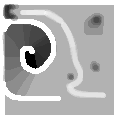
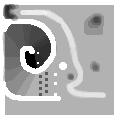
new lighting, ability to ride creature, added pnoise.

diff --git a/js/InformGameApp.js b/js/InformGameApp.js
@@ -21,6 +21,9 @@ var world = {};
 
 var time = 0;
 
+var player;
+var playerTarget = null;
+
 //***************************************************************************//
 // initialize the renderer, scene, camera, and lights                        //
 //***************************************************************************//
@@ -36,7 +39,7 @@ function onLoad()
     renderer.shadowMapEnabled = true;
     // renderer.shadowMapSoft = true;
     // renderer.physicallyBasedShading = true;
-    // renderer.shadowMapCullFace = THREE.CullFaceBack;
+    renderer.shadowMapCullFace = THREE.CullFaceBack;
     container.appendChild( renderer.domElement );
 
     // Create a new Three.js scene
@@ -46,7 +49,7 @@ function onLoad()
     camera = new THREE.PerspectiveCamera( 20, 
         window.innerWidth / window.innerHeight, 1, 10000 );
         
-    camera.position.set( 100, 50, 0);
+    camera.position.set( 0, 50, -100);
     camera.lookAt(0, 0, 0);
     controls = new THREE.OrbitControls(camera);
     controls.noKeys = true;
@@ -84,7 +87,7 @@ function initSceneLights()
 {
     // Create an ambient and a directional light to show off the object
     var dirLight = [];
-    var ambLight = new THREE.AmbientLight( 0x222222 ); // soft white light
+    var ambLight = new THREE.AmbientLight( 0x777777 ); // soft white light
     dirLight[0] = new THREE.DirectionalLight( 0xffffff, 1);
     dirLight[0].position.set(0, 1, 1);
     dirLight[0].casrShadow = true;
@@ -99,8 +102,8 @@ function initSceneLights()
       // object spotlight
     spotLight = new THREE.SpotLight(0xFFFFEE, 1);
     spotLight.angle = Math.PI/2;
-    spotLight.exponent = 10;
-    spotLight.position.set(12, 40, 8);
+    spotLight.exponent = 12;
+    spotLight.position.set(12, 40, 30);
     spotLight.target.position.set(0, 0, 0);
     spotLight.castShadow = true;
     spotLight.shadowCameraNear = 10;
@@ -123,11 +126,12 @@ function populateScene()
     // scene.add(axes);
 
     var geo = new THREE.SphereGeometry(0.6, 12, 12);
-    var mesh = new THREE.Mesh(geo, resMgr.materials.character);
-    mesh.position.y += 4.4;
-    mesh.castShadow = true;
-    mesh.receiveShadow = true;
-    scene.add(mesh);
+    player = new THREE.Mesh(geo, resMgr.materials.character);
+    // player.rotation.x = -Math.PI/2;
+    player.position.set(0.5, 0, 0.5);
+    player.castShadow = true;
+    player.receiveShadow = true;
+    scene.add(player);
 
     world = new World("art/test4.png");
 
@@ -146,10 +150,11 @@ var transFunc = function(x, y)
 
 function addGui()
 {
-/*
     var gui = new dat.GUI();
-    var f1 = gui.addFolder('HEAD GEOMETRY');
-    f1.add(genome, 'headBaseRadius', 5, 35).onChange(onGeometryChanged);
+    inform.cooldown = 0.55;
+    gui.add(inform, 'cooldown', 0, 1);
+    gui.add(world.context, 'imageSmoothingEnabled');
+/*
     var tmpF = f1.addFolder('Head Scale Vector');
     tmpF.add(genome.headJointsScaleFactor, 'x', 0.7, 1.2).onChange(onGeometryChanged);
     tmpF.add(genome.headJointsScaleFactor, 'y', 0.7, 1.2).onChange(onGeometryChanged);
@@ -205,19 +210,28 @@ function run()
     if (animating)
     {
         if (keyPressed[38]) {
+            playerTarget = null;
             world.propel(0.2);
         }
         else if (keyPressed[40]) {
+            playerTarget = null;
             world.propel(-0.2);
         }
         if (keyPressed[37]) {
-            world.turn(-0.01);
-        }
-        else if (keyPressed[39]) {
             world.turn(0.01);
         }
+        else if (keyPressed[39]) {
+            world.turn(-0.01);
+        }
+
         world.update();
-        inform.applyHeights(world.getHeights());
+        // handle player target (ride on monster)
+        if (playerTarget != null) {
+            world.pos.set(playerTarget.pos.x, playerTarget.pos.y, playerTarget.pos.z);
+        }
+        inform.applyHeights(world.getHeightsAbs());
+
+        player.position.y = inform.cubes[15+15*30].position.z + 2.5;
     }
 
     // Ask for another frame
@@ -248,10 +262,20 @@ function onKeyDown(evt)
     var keyCode = getKeyCode(evt);
     keyPressed[keyCode] = true;
 
-    // console.log(keyCode);
+    console.log(keyCode);
 
     if (keyCode == 32) {
         animating = !animating;        
+    }
+    if (keyCode == 65) {    // a
+        var a = new THREE.Vector3();
+        console.log(world.pos);
+        console.log(world.creature.pos);
+        a.subVectors(world.pos, world.creature.pos);
+        console.log(a.length());
+        if (a.length() < 4) {
+            playerTarget = world.creature;
+        }
     }
 
     evt.preventDefault();

diff --git a/js/libs/pnoise.js b/js/libs/pnoise.js
@@ -1,0 +1,37 @@
+   var noise = function(x, y, z) {
+      var X = Math.floor(x)&255, Y = Math.floor(y)&255, Z = Math.floor(z)&255;
+      x -= Math.floor(x); y -= Math.floor(y); z -= Math.floor(z);
+      var u = fade(x), v = fade(y), w = fade(z);
+      var A = p[X  ]+Y, AA = p[A]+Z, AB = p[A+1]+Z,      // HASH COORDINATES OF
+          B = p[X+1]+Y, BA = p[B]+Z, BB = p[B+1]+Z;      // THE 8 CUBE CORNERS,
+      return lerp(w, lerp(v, lerp(u, grad(p[AA  ], x  , y  , z   ),  // AND ADD
+                                     grad(p[BA  ], x-1, y  , z   )), // BLENDED
+                             lerp(u, grad(p[AB  ], x  , y-1, z   ),  // RESULTS
+                                     grad(p[BB  ], x-1, y-1, z   ))),// FROM  8
+                     lerp(v, lerp(u, grad(p[AA+1], x  , y  , z-1 ),  // CORNERS
+                                     grad(p[BA+1], x-1, y  , z-1 )), // OF CUBE
+                             lerp(u, grad(p[AB+1], x  , y-1, z-1 ),
+                                     grad(p[BB+1], x-1, y-1, z-1 ))));
+   };
+   function fade(t) { return t * t * t * (t * (t * 6 - 15) + 10); };
+   function lerp(t, a, b) { return a + t * (b - a); };
+   function grad(hash, x, y, z) {
+      var h = hash & 15;                      // CONVERT LO 4 BITS OF HASH CODE
+      var u = h<8 ? x : y,                    // INTO 12 GRADIENT DIRECTIONS.
+          v = h<4 ? y : h==12||h==14 ? x : z;
+      return ((h&1) == 0 ? u : -u) + ((h&2) == 0 ? v : -v);
+   };
+   var p = [ 151,160,137,91,90,15,
+   131,13,201,95,96,53,194,233,7,225,140,36,103,30,69,142,8,99,37,240,21,10,23,
+   190, 6,148,247,120,234,75,0,26,197,62,94,252,219,203,117,35,11,32,57,177,33,
+   88,237,149,56,87,174,20,125,136,171,168, 68,175,74,165,71,134,139,48,27,166,
+   77,146,158,231,83,111,229,122,60,211,133,230,220,105,92,41,55,46,245,40,244,
+   102,143,54, 65,25,63,161, 1,216,80,73,209,76,132,187,208, 89,18,169,200,196,
+   135,130,116,188,159,86,164,100,109,198,173,186, 3,64,52,217,226,250,124,123,
+   5,202,38,147,118,126,255,82,85,212,207,206,59,227,47,16,58,17,182,189,28,42,
+   223,183,170,213,119,248,152, 2,44,154,163, 70,221,153,101,155,167, 43,172,9,
+   129,22,39,253, 19,98,108,110,79,113,224,232,178,185, 112,104,218,246,97,228,
+   251,34,242,193,238,210,144,12,191,179,162,241, 81,51,145,235,249,14,239,107,
+   49,192,214, 31,181,199,106,157,184, 84,204,176,115,121,50,45,127, 4,150,254,
+   138,236,205,93,222,114,67,29,24,72,243,141,128,195,78,66,215,61,156,180 ];
+   for (var i=0; i < 256 ; i++) p.push(p[i]);

diff --git a/js/World.js b/js/World.js
@@ -1,23 +1,24 @@
 
 var MAX_SPEED = 0.2;
 var MAX_ROT_SPEED = 0.15;
-var DEPTH_RANGE = 300;
+var DEPTH_RANGE = 512;
 
 World = function(pngFilename)
 {
-	this.pos = new THREE.Vector2(45, 45);
+	this.pos = new THREE.Vector3(45, 45, 0);
 	this.rotation = 0;
-	this.vel = new THREE.Vector2(0, 0);
-	this.acc = new THREE.Vector2(0, 0);
+	this.vel = new THREE.Vector3(0, 0, 0);
+	this.acc = new THREE.Vector3(0, 0, 0);
 	this.rotSpeed = 0;
 	this.rotAcc = 0;
 
 	this.loaded = false;
-	this.canvas = document.createElement("canvas");
+	this.canvas = document.getElementById("imgCanvas");
+	// this.canvas = document.createElement("canvas");
 	this.canvas.width = 30;
 	this.canvas.height = 30;
 	this.context = this.canvas.getContext("2d");
-	// this.context.imageSmoothingEnabled = false;
+	this.context.imageSmoothingEnabled = false;
 
 	this.creature = new Creature(120, 120);
 
@@ -60,7 +61,7 @@ World.prototype.update = function()
 	this.rotation += this.rotSpeed;
 	this.rotSpeed *= 0.7;
 
-	this.acc.set(0, 0);
+	this.acc.set(0, 0, 0);
 	this.rotAcc = 0;
 
 	// update the creature
@@ -77,6 +78,20 @@ World.prototype.update = function()
 	this.context.translate(this.pos.x, this.pos.y);
 	this.context.rotate(-this.rotation);
 	this.context.translate(-15, -15);
+}
+
+World.prototype.getHeightsAbs = function()
+{
+	var heightArr = [];
+
+	// get current data
+	var imgData = this.context.getImageData(0, 0, this.canvas.width, this.canvas.height).data;
+	for (var i=0; i<imgData.length; i+=4)
+	{
+		heightArr[i/4] = 4/255 * imgData[i];
+	}
+
+	return heightArr;	
 }
 
 World.prototype.getHeights = function()
@@ -99,7 +114,7 @@ World.prototype.getHeights = function()
 
 World.prototype.propel = function(amount)
 {
-	this.acc.set(amount * -Math.cos(-this.rotation), amount * -Math.sin(-this.rotation));
+	this.acc.set(amount * Math.sin(this.rotation), amount * Math.cos(this.rotation), 0);
 }
 
 World.prototype.turn = function(amount)

diff --git a/js/Creature.js b/js/Creature.js
@@ -2,8 +2,10 @@
 Creature = function(width, height)
 {
 	this.canvasSize = new THREE.Vector2(width, height);
-	this.pos = new THREE.Vector2(30, 56);
+	this.center = new THREE.Vector3(30, 56, 0);
+	this.pos = new THREE.Vector3(this.center.x, this.center.y, this.center.z);
 	this.time = 0;
+	this.noiseTime = 0;
 	this.canvas = document.createElement("canvas");
 	this.canvas.width = width;
 	this.canvas.height = height;
@@ -12,7 +14,10 @@ Creature = function(width, height)
 
 Creature.prototype.update = function()
 {
-	this.time += 0.1;
+	this.noiseTime += 0.01;
+	this.time += noise(this.noiseTime, 0, 0);
+	// console.log(noise(time, 0, 0));
+	this.pos.x = this.center.x + noise(this.noiseTime, 0, 0) * 10;
 }
 
 Creature.prototype.draw = function(ctx)
@@ -20,13 +25,13 @@ Creature.prototype.draw = function(ctx)
 	// this.context.fillStyle = "0xff000000";
 	// this.context.fillRect(0, 0, this.canvas.width, this.canvas.height);
 	ctx.translate(this.pos.x, this.pos.y);
-	var brightness = (Math.sin(this.time) + 1) * 125;
+	var brightness = map(Math.sin(this.time), -1, 1, 100, 200);
 	// console.log(brightness);
 	// this.context.fillStyle = "rgb(" + brightness + "," + brightness + "," + brightness + ")";
 	var brStr = "rgb("+Math.floor(brightness).toString()+","+Math.floor(brightness).toString()+","+Math.floor(brightness).toString()+")";
 	// console.log(brStr);
 	ctx.fillStyle = brStr;//"rgb("+brStr +"," + brStr + "," + brStr+")";
-	ctx.fillRect(-1, 1, 3, 3);
+	ctx.fillRect(-1, -1, 3, 3);
 	ctx.translate(-this.pos.x, -this.pos.y);
 }
 

diff --git a/index.html b/index.html
@@ -8,6 +8,7 @@
     <script src="js/libs/OrbitControls.js"></script>
     <script src="js/libs/dat.gui.js"></script>
     <script src="js/libs/STLExporter.js"></script>
+    <script src="js/libs/pnoise.js"></script>
     <script src="js/ResourceManager.js"></script>
     <script src="js/InformGameApp.js"></script>
     <script src="js/InformTable.js"></script>
@@ -17,13 +18,11 @@
 </head>
 <body onLoad="onLoad();" style="width:100%; height:100%; padding: 0px 0px 0px 0px; margin: 0px 0px 0px 0px;">
 <div>
-    <div id="container" style="width:80%; height:100%; padding: 0px 0px 0px 0px; margin: 0px 0px 0px 0px;">
-    </div>
-    <!--
     <div style="width:20%; height:100%;">
     <canvas id="imgCanvas" style="width:30px; height:30px;"></canvas>
     </div>
--->
+    <div id="container" style="width:80%; height:100%; padding: 0px 0px 0px 0px; margin: 0px 0px 0px 0px;">
+    </div>
 </div>
 </body>
 </html>

diff --git a/js/InformTable.js b/js/InformTable.js
@@ -8,6 +8,7 @@ InformTable = function()
 
 	this.cubes = [];
 	this.table = {};
+	this.cooldown = 0;
 
 	// this.showClipping = true;
 }
@@ -34,7 +35,7 @@ InformTable.prototype.init = function()
 		{
 			var cube = new THREE.Mesh(geo, resMgr.materials.white);
 			cube.position.set(topLeft.x + x + SPACING*x, topLeft.y + y + SPACING*y, 0);
-			this.cubes[y*TABLE_WIDTH + x] = cube;
+			this.cubes[(TABLE_HEIGHT-y-1)*TABLE_WIDTH + x] = cube;
 			this.table.add(cube);
 			cube.castShadow = true;
 			cube.receiveShadow = true;
@@ -46,7 +47,7 @@ InformTable.prototype.applyHeights = function(heights)
 {
 	for (var i=0; i<heights.length; i++)
 	{
-		this.cubes[i].position.z = heights[i];
+		this.cubes[i].position.z += (heights[i] - this.cubes[i].position.z) * (1-this.cooldown);
 
 		if (this.showClipping) {
 			if (heights[i] == 0 || heights[i] == 4) {

diff --git a/js/Player.js b/js/Player.js
@@ -1,0 +1,7 @@
+
+
+Player = function()
+{
+	this.pos = new Vector3();
+	
+}
